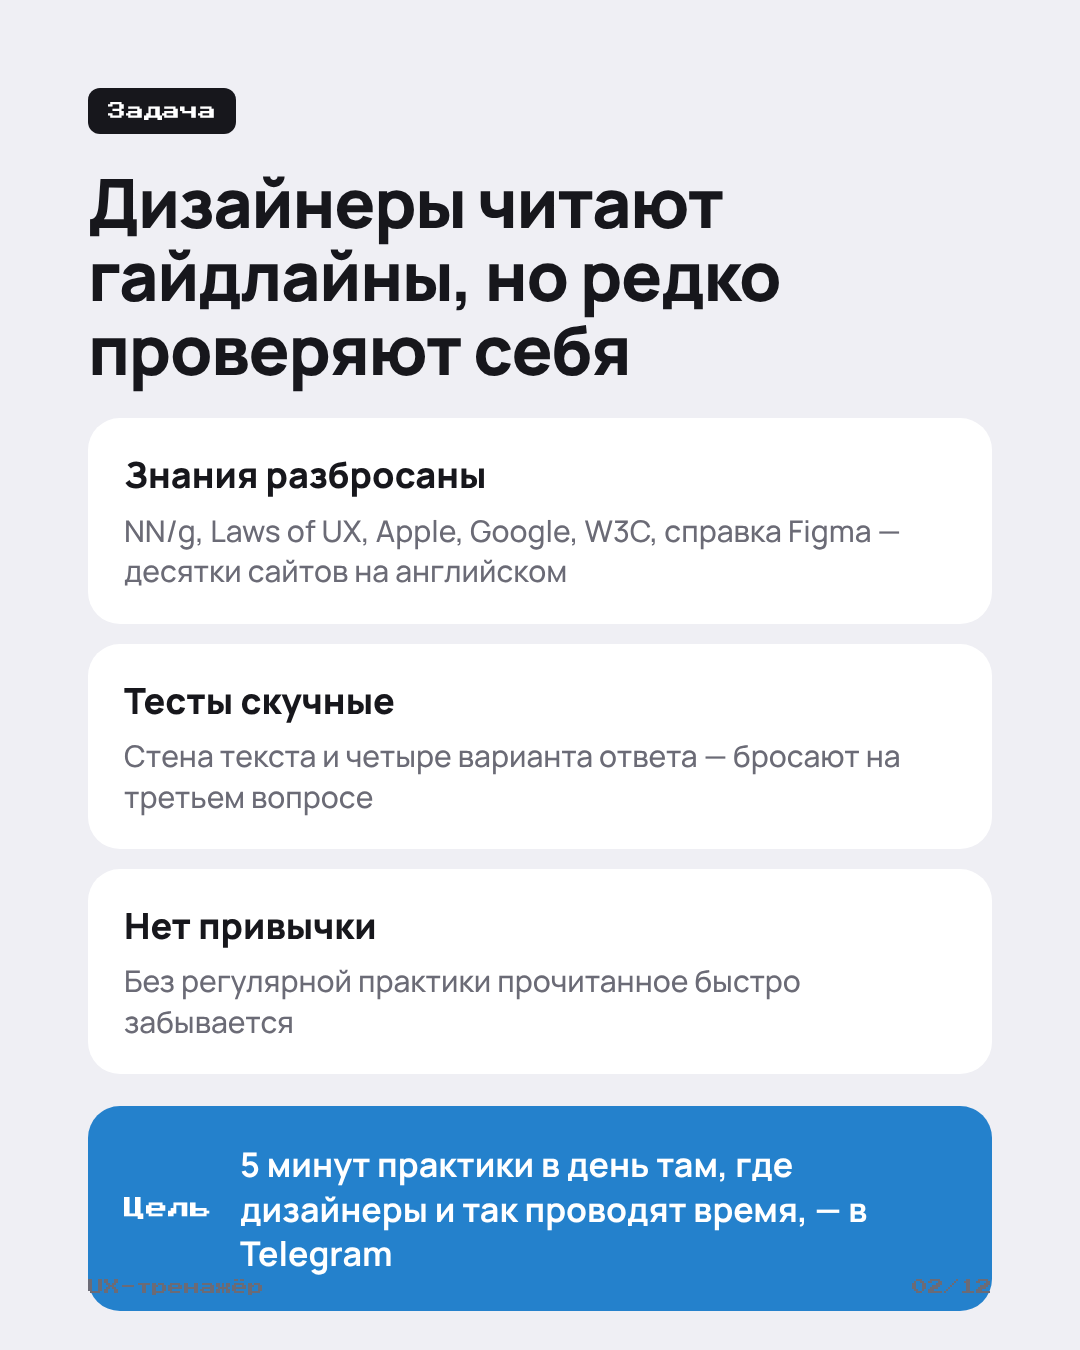
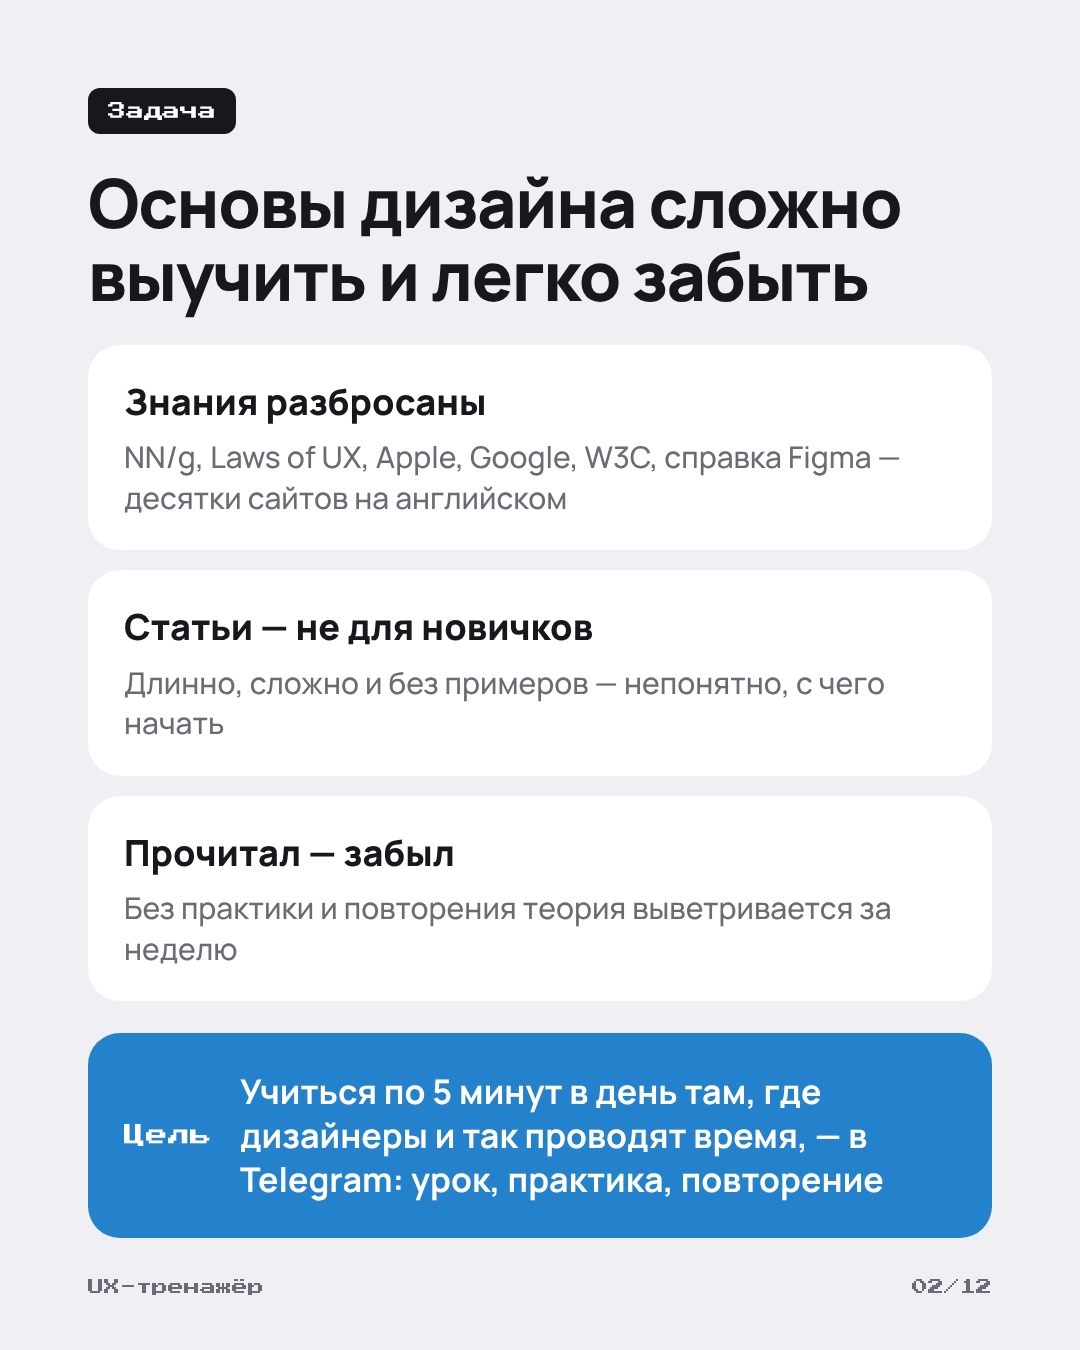
Карусель: подаём как обучение основам, а тесты — как закрепление
Учебник появился, и роль приложения сменилась: оно учит основам, а тесты
не дают знаниям вылететь из головы.

- Обложка, «Задача», «Решение»: основы сложно выучить и легко забыть;
  учебник объясняет, тесты закрепляют, бот напоминает.
- «Учебник» переехал сразу за «Контент», практика на макетах — после него.
- Подпись к посту переписана в той же логике.

Claude-Session: https://claude.ai/code/session_016ARqkcdLVW94N54ZbS2hwr

diff --git a/web/src/carousel/Carousel.tsx b/web/src/carousel/Carousel.tsx
@@ -71,7 +71,7 @@ export function Carousel() {
           UX-тренажёр
           <br />с котом Кеглем
         </h1>
-        <p className="lead">{QUESTIONS} вопросов и учебник по UX, гайдлайнам и Figma — прямо в Telegram</p>
+        <p className="lead">Учит основам UX/UI, гайдлайнов и Figma, а тесты не дают знаниям вылететь из головы</p>
         <div className="cover__art">
           <Cat mood="happy" size={360} />
           <Phone src={home} className="cover__phone" />
@@ -82,63 +82,63 @@ export function Carousel() {
       {/* 2. Задача */}
       <Slide n={2}>
         <Tag>Задача</Tag>
-        <h2>Дизайнеры читают гайдлайны, но редко проверяют себя</h2>
+        <h2>Основы дизайна сложно выучить и легко забыть</h2>
         <div className="cards">
           <div className="card">
             <b>Знания разбросаны</b>
             <span>NN/g, Laws of UX, Apple, Google, W3C, справка Figma — десятки сайтов на английском</span>
           </div>
           <div className="card">
-            <b>Тесты скучные</b>
-            <span>Стена текста и четыре варианта ответа — бросают на третьем вопросе</span>
+            <b>Статьи — не для новичков</b>
+            <span>Длинно, сложно и без примеров — непонятно, с чего начать</span>
           </div>
           <div className="card">
-            <b>Нет привычки</b>
-            <span>Без регулярной практики прочитанное быстро забывается</span>
+            <b>Прочитал — забыл</b>
+            <span>Без практики и повторения теория выветривается за неделю</span>
           </div>
         </div>
         <div className="goal">
           <span className="pixel">Цель</span>
-          <p>5 минут практики в день там, где дизайнеры и так проводят время, — в Telegram</p>
+          <p>Учиться по 5 минут в день там, где дизайнеры и так проводят время, — в Telegram: урок, практика, повторение</p>
         </div>
       </Slide>
 
       {/* 3. Решение */}
       <Slide n={3}>
         <Tag>Решение</Tag>
-        <h2>Mini App для тренировки и бот для привычки</h2>
+        <h2>Учебник объясняет, тесты закрепляют, бот напоминает</h2>
         <div className="split">
           <div className="card card--big">
-            <b>Mini App</b>
+            <b>Учиться</b>
             <ul>
-              <li>Сессии по 10 вопросов</li>
-              <li>Разбор каждого ответа</li>
-              <li>Учебник по каждой теме</li>
-              <li>Стрик и повторение ошибок</li>
+              <li>Уроки простым языком</li>
+              <li>Примеры из жизни и макеты</li>
+              <li>Три вопроса после урока</li>
+              <li>Следующий урок по порядку</li>
             </ul>
           </div>
           <div className="card card--big">
-            <b>Бот</b>
+            <b>Закреплять</b>
             <ul>
-              <li>Вопрос дня прямо в чат</li>
-              <li>Напоминание о стрике</li>
-              <li>Время, пояс и пауза — в настройках</li>
-              <li>Пишет только с разрешения</li>
+              <li>Сессии по 10 вопросов</li>
+              <li>Разбор каждого ответа</li>
+              <li>Повторение ошибок</li>
+              <li>Стрик и вопрос дня в чате</li>
             </ul>
           </div>
         </div>
         <div className="stats">
           <div>
-            <b>{tracks.length}</b>
-            <span>{plural(tracks.length, 'тема', 'темы', 'тем')}</span>
+            <b>{lessons.length}</b>
+            <span>{lessonsWord(lessons.length)}</span>
           </div>
           <div>
             <b>{questions.length}</b>
             <span>{questionsWord(questions.length)}</span>
           </div>
           <div>
-            <b>{lessons.length}</b>
-            <span>{lessonsWord(lessons.length)}</span>
+            <b>{tracks.length}</b>
+            <span>{plural(tracks.length, 'тема', 'темы', 'тем')}</span>
           </div>
         </div>
       </Slide>
@@ -169,12 +169,42 @@ export function Carousel() {
         <p className="note">Каждый факт сверен с первоисточником</p>
       </Slide>
 
-      {/* 5. Форматы */}
-      <Slide n={5}>
-        <Tag>Форматы</Tag>
-        <h2>Меньше текста — больше макетов</h2>
+      {/* 5. Учебник */}
+      <Slide n={5} className="explain">
+        <Tag>Учебник</Tag>
+        <h2>Сначала — урок простым языком</h2>
         <p className="lead">
-          {visualCount} {questionsWord(visualCount)} — на вайрфреймах, а не текстом
+          {lessons.length} {lessonsWord(lessons.length)} по всем {tracks.length} темам — от эвристик до автолейаута
+        </p>
+        <div className="explain__body">
+          <Phone src={lesson} className="phone--tall" />
+          <ol className="callouts">
+            <li>
+              <b>Простым языком</b>
+              <span>пересказ NN/g, Laws of UX, Apple, Google, W3C и справки Figma</span>
+            </li>
+            <li>
+              <b>Примеры из жизни</b>
+              <span>лифт, врач, аварийный выход — чтобы принцип запомнился</span>
+            </li>
+            <li>
+              <b>Так себе / лучше</b>
+              <span>два вайрфрейма рядом вместо абзаца текста</span>
+            </li>
+            <li>
+              <b>Сразу практика</b>
+              <span>три вопроса на закрепление, а дальше — следующий урок</span>
+            </li>
+          </ol>
+        </div>
+      </Slide>
+
+      {/* 6. Форматы */}
+      <Slide n={6}>
+        <Tag>Форматы</Tag>
+        <h2>Закрепляем на макетах, а не на тексте</h2>
+        <p className="lead">
+          {visualCount} {questionsWord(visualCount)} на вайрфреймах: тапни, сравни, выбери
         </p>
         <div className="phones">
           {[
@@ -193,8 +223,8 @@ export function Carousel() {
         </div>
       </Slide>
 
-      {/* 6. Разбор */}
-      <Slide n={6} className="explain">
+      {/* 7. Разбор */}
+      <Slide n={7} className="explain">
         <Tag>Разбор</Tag>
         <h2>Даже угаданный ответ должен чему-то учить</h2>
         <div className="explain__body">
@@ -215,36 +245,6 @@ export function Carousel() {
             <li>
               <b>Урок и первоисточник</b>
               <span>из ошибки — сразу в урок учебника или в статью</span>
-            </li>
-          </ol>
-        </div>
-      </Slide>
-
-      {/* 7. Учебник */}
-      <Slide n={7} className="explain">
-        <Tag>Учебник</Tag>
-        <h2>Ошибся — открой урок</h2>
-        <p className="lead">
-          {lessons.length} {lessonsWord(lessons.length)} по всем темам: тест проверяет, урок объясняет
-        </p>
-        <div className="explain__body">
-          <Phone src={lesson} className="phone--tall" />
-          <ol className="callouts">
-            <li>
-              <b>Простым языком</b>
-              <span>пересказ NN/g, Laws of UX, Apple, Google, W3C и справки Figma</span>
-            </li>
-            <li>
-              <b>Примеры из жизни</b>
-              <span>лифт, врач, аварийный выход — чтобы принцип запомнился</span>
-            </li>
-            <li>
-              <b>Так себе / лучше</b>
-              <span>два вайрфрейма рядом вместо абзаца текста</span>
-            </li>
-            <li>
-              <b>Три вопроса на закрепление</b>
-              <span>а дальше — следующий урок по порядку</span>
             </li>
           </ol>
         </div>
@@ -346,7 +346,7 @@ export function Carousel() {
       {/* 12. Призыв */}
       <Slide n={12} className="cta">
         <Tag>Попробовать</Tag>
-        <h2>Пять минут в день — и гайдлайны в голове</h2>
+        <h2>Пять минут в день — и основы в голове</h2>
         <div className="cta__body">
           <div className="qr" dangerouslySetInnerHTML={{ __html: qr }} />
           <div className="cta__link">

diff --git a/brand/instagram/caption.md b/brand/instagram/caption.md
@@ -1,13 +1,14 @@
-UX-тренажёр с котом Кеглем 🐈 — Telegram Mini App для UX/UI-дизайнеров
+UX-тренажёр с котом Кеглем 🐈 — Telegram Mini App, который учит основам UX/UI и Figma
 
-Дизайнеры много читают NN/g, гайдлайны Apple и Google, справку Figma, но редко проверяют, что запомнилось. Отсюда идея: 5 минут практики в день прямо в Telegram.
+Основы дизайна сложно выучить и легко забыть: статьи NN/g, гайдлайны Apple и Google, справка Figma — длинные, на английском и без примеров для новичка. А прочитанное без практики выветривается за неделю.
 
-Что внутри:
+Как устроено:
+• учебник: 122 урока простым языком — пересказ первоисточников с примерами из жизни и макетами «так себе / лучше»
+• после каждого урока — три вопроса на закрепление, а дальше следующий урок по порядку
 • больше 1000 вопросов по 14 темам в трёх разделах: UX/UI, гайдлайны (Apple HIG, Material Design 3, WCAG 2.2) и Figma
-• многие задания на макетах: найди проблему тапом, отметь все ошибки на экране, выбери лучший вариант, расставь шаги по порядку
-• разбор после каждого ответа: суть, объяснение, «как правильно» и ссылка на первоисточник
-• учебник: 122 урока простым языком с примерами из жизни — из ошибки в тесте можно сразу перейти в нужный урок
-• стрик, повторение ошибок через 1, 3 и 7 дней и вопрос дня в чате — по желанию
+• многие задания на макетах: найди проблему тапом, отметь все ошибки, выбери лучший вариант
+• разбор после каждого ответа и ссылка на первоисточник, а из ошибки — сразу в нужный урок
+• ошибки возвращаются через 1, 3 и 7 дней, чтобы знания не вылетели из головы; стрик и вопрос дня в чате — по желанию
 • результатом, стриком или уроком можно поделиться: в чат уходит карточка с твоими цифрами
 
 Каждая правка — после живого теста в Telegram: от «простыней текста» к вопросам на макетах, от разбора только при ошибке — к разбору после любого ответа, от тестов, которые только проверяют, — к учебнику, который объясняет.
@@ -16,4 +17,4 @@ UX-тренажёр с котом Кеглем 🐈 — Telegram Mini App для
 
 Проект некоммерческий — для дизайн-сообщества.
 
-#uxdesign #uidesign #продуктовыйдизайн #ux #ui #figma #telegramminiapp #дизайн #портфолио #accessibility #wcag #humaninterfaceguidelines #materialdesign
+#uxdesign #uidesign #продуктовыйдизайн #ux #ui #figma #telegramminiapp #дизайн #обучениедизайну #портфолио #accessibility #wcag #humaninterfaceguidelines #materialdesign
